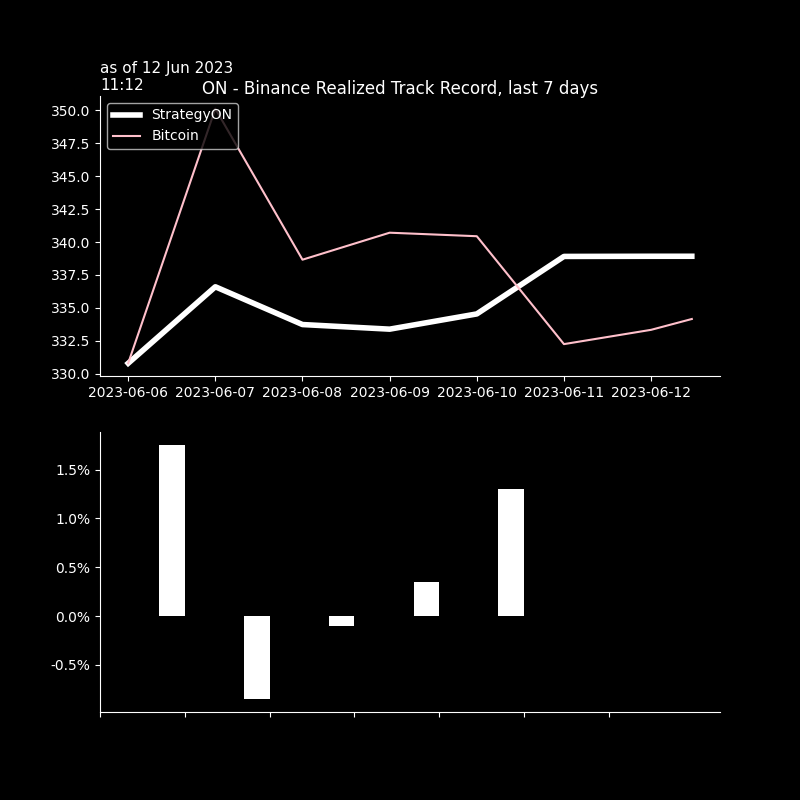
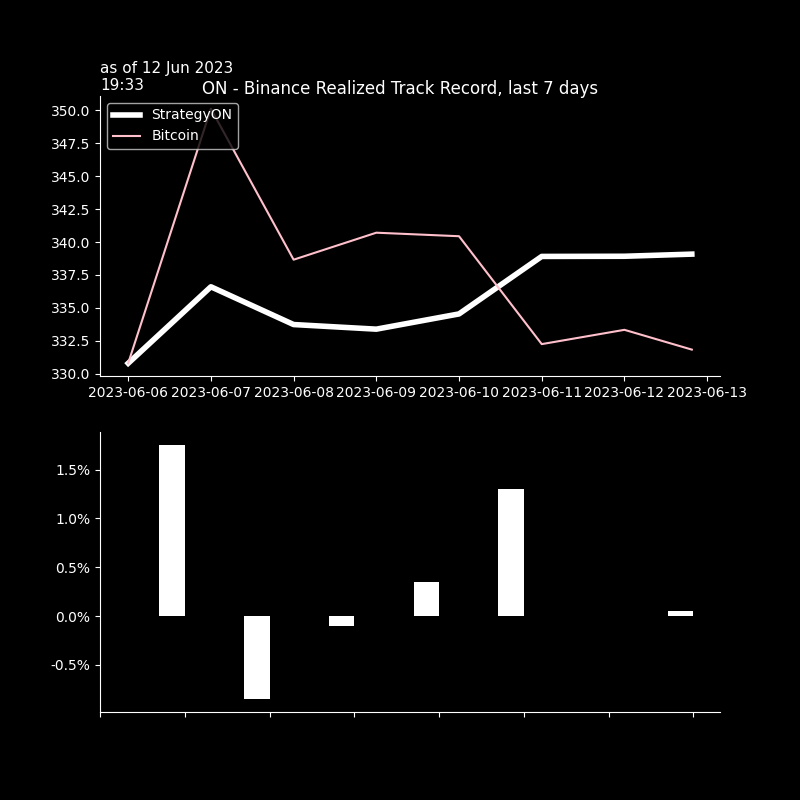
seb_commit

diff --git a/crypto/graphs/bt_trades_book.htmltrade_trades_book.html b/crypto/graphs/bt_trades_book.htmltrade_trades_book.html
@@ -37,55 +37,55 @@
   </thead>
   <tbody>
     <tr>
-      <th>BTCUSDT</th>
-      <td>25979.5000</td>
-      <td>2023-06-11 22:32:30</td>
-      <td>-0.007</td>
-      <td>$-181.9</td>
-      <td>$0.03</td>
-      <td>1.6</td>
-      <td>0.1</td>
-      <td>25979.35000</td>
-      <td>2023-06-11 23:31</td>
-      <td>0.0</td>
-      <td>0.0</td>
-      <td>25981.1</td>
-      <td>-0.0</td>
-      <td>-1.0</td>
-    </tr>
-    <tr>
       <th>XRPUSDT</th>
-      <td>0.5213</td>
-      <td>2023-06-11 22:32:14</td>
-      <td>-325.600</td>
-      <td>$-169.7</td>
+      <td>0.5196</td>
+      <td>2023-06-12 18:32:49</td>
+      <td>326.300</td>
+      <td>$169.5</td>
       <td>$0.03</td>
       <td>1.6</td>
       <td>0.0</td>
-      <td>0.52135</td>
-      <td>2023-06-11 23:31</td>
-      <td>-0.0</td>
-      <td>-1.0</td>
-      <td>.5215</td>
+      <td>0.51945</td>
+      <td>2023-06-12 19:31</td>
       <td>-0.1</td>
-      <td>-4.0</td>
+      <td>-3.0</td>
+      <td>.5197</td>
+      <td>0.0</td>
+      <td>2.0</td>
     </tr>
     <tr>
       <th>ETHUSDT</th>
-      <td>1757.5200</td>
-      <td>2023-06-11 22:32:16</td>
-      <td>-0.096</td>
-      <td>$-168.7</td>
-      <td>$0.03</td>
-      <td>1.6</td>
+      <td>1732.8800</td>
+      <td>2023-06-12 18:32:48</td>
+      <td>0.098</td>
+      <td>$169.8</td>
+      <td>$0.07</td>
+      <td>4.0</td>
+      <td>0.0</td>
+      <td>1733.92500</td>
+      <td>2023-06-12 19:31</td>
       <td>0.1</td>
-      <td>1757.73500</td>
-      <td>2023-06-11 23:31</td>
+      <td>6.0</td>
+      <td>1732.81</td>
       <td>-0.0</td>
       <td>-1.0</td>
-      <td>1758.</td>
-      <td>-0.1</td>
-      <td>-3.0</td>
+    </tr>
+    <tr>
+      <th>BTCUSDT</th>
+      <td>25783.2000</td>
+      <td>2023-06-12 18:32:48</td>
+      <td>0.007</td>
+      <td>$180.5</td>
+      <td>$0.03</td>
+      <td>1.6</td>
+      <td>0.0</td>
+      <td>25797.95000</td>
+      <td>2023-06-12 19:31</td>
+      <td>0.1</td>
+      <td>6.0</td>
+      <td>25782.9</td>
+      <td>-0.0</td>
+      <td>-0.0</td>
     </tr>
   </tbody>
 </table>

diff --git a/crypto/graphs/bt_trades_pnlD_recap.htmltrade_trades_pnlD_recap.html b/crypto/graphs/bt_trades_pnlD_recap.htmltrade_trades_pnlD_recap.html
@@ -1,7 +1,7 @@
 <table border="1" class="dataframe">
   <thead>
     <tr style="text-align: right;">
-      <th>11 Jun 23:32</th>
+      <th>12 Jun 19:32</th>
       <th>realizedPnl</th>
       <th>PnLvsArrival</th>
       <th>PnLvsLast</th>
@@ -10,21 +10,21 @@
   <tbody>
     <tr>
       <th>in$</th>
+      <td>0.0</td>
       <td>0.2</td>
-      <td>-0.0</td>
-      <td>-0.1</td>
+      <td>0.0</td>
     </tr>
     <tr>
-      <th>in bp 520 traded</th>
+      <th>in bp 519 traded</th>
+      <td>0 bp</td>
+      <td>3 bp</td>
+      <td>0 bp</td>
+    </tr>
+    <tr>
+      <th>in bp 338 AUMs</th>
+      <td>0 bp</td>
       <td>4 bp</td>
-      <td>-1 bp</td>
-      <td>-2 bp</td>
-    </tr>
-    <tr>
-      <th>in bp 339 AUMs</th>
-      <td>7 bp</td>
-      <td>-1 bp</td>
-      <td>-4 bp</td>
+      <td>1 bp</td>
     </tr>
   </tbody>
 </table>

diff --git a/crypto/graphs/bt_trades_recap.htmltrade_trades_recap.html b/crypto/graphs/bt_trades_recap.htmltrade_trades_recap.html
@@ -9,33 +9,33 @@
   <tbody>
     <tr>
       <th>as of</th>
-      <td>11Jun 22:32&gt;&gt;22:32</td>
+      <td>12Jun 18:32&gt;&gt;18:32</td>
       <td>#trades: 3</td>
     </tr>
     <tr>
       <th>trade net</th>
-      <td>-520.0</td>
-      <td>-153.3%</td>
+      <td>+520.0</td>
+      <td>+153.4%</td>
     </tr>
     <tr>
       <th>trade gross</th>
       <td>+520.0</td>
-      <td>+153.3%</td>
+      <td>+153.4%</td>
     </tr>
     <tr>
       <th>BUY</th>
+      <td>+520.0</td>
+      <td>+153.4%</td>
+    </tr>
+    <tr>
+      <th>SELL</th>
       <td>+0.0</td>
       <td>+0.0%</td>
     </tr>
     <tr>
-      <th>SELL</th>
-      <td>-520.0</td>
-      <td>-153.3%</td>
-    </tr>
-    <tr>
       <th>fees</th>
-      <td>$ 0.083</td>
-      <td>1.6bp</td>
+      <td>$ 0.124</td>
+      <td>2.38bp</td>
     </tr>
   </tbody>
 </table>
